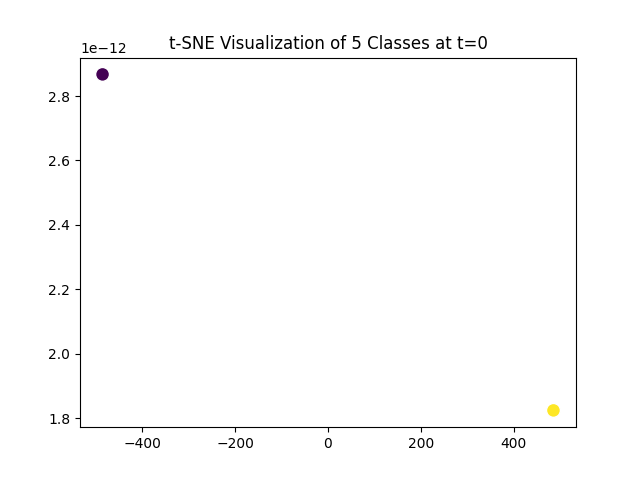
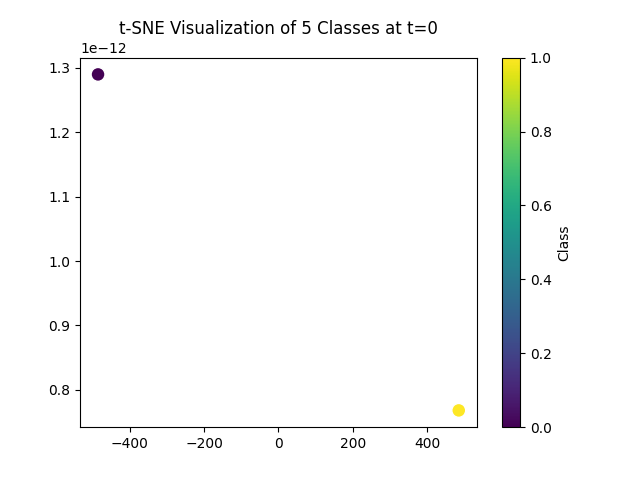
Colourbar added to T-SNE plots

diff --git a/src/metrics.py b/src/metrics.py
@@ -36,12 +36,17 @@ def compute_f1_score(target, pred):
 
 def t_sne(y_t, t_num):
     y_t = np.array(y_t)
+    y_t_values_flat = y_t.reshape((y_t.shape[0], -1))
     y_t_tsne = TSNE(
-        n_components=2, perplexity=1.5).fit_transform(y_t)
+        n_components=2, perplexity=1.75).fit_transform(y_t_values_flat)
     # print(y_t_tsne)
     # Plot the t-SNE visualization with color-coded classes
-    plt.scatter(y_t_tsne[:, 0], y_t_tsne[:, 1], c=range(
-        0, len(y_t_tsne[:, 1])), cmap='viridis', marker='o', edgecolors='w', s=100)
+    plt.scatter(y_t_tsne[:, 0], y_t_tsne[:, 1], c=range(0, len(y_t_tsne)),
+                cmap='viridis', marker='o', edgecolors='w', s=100)
     plt.title('t-SNE Visualization of 5 Classes at t='+str(t_num))
+    # plt.xlabel('t-SNE Dimension 1')
+    # plt.ylabel('t-SNE Dimension 2')
+    plt.colorbar(label='Class')
     plt.savefig('t_sne_'+str(t_num)+'.png', format='PNG')
+    # plt.legend()
     plt.close()
